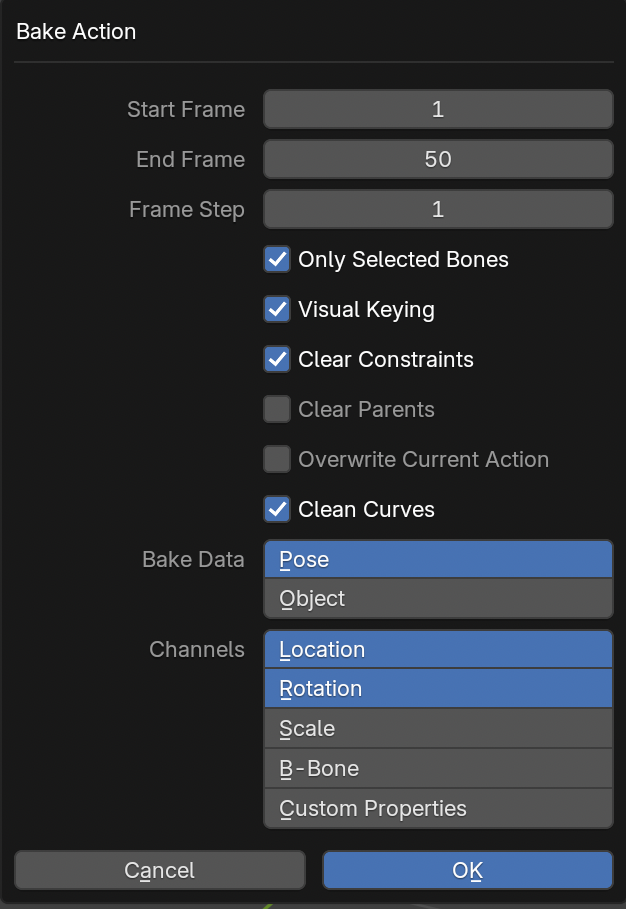
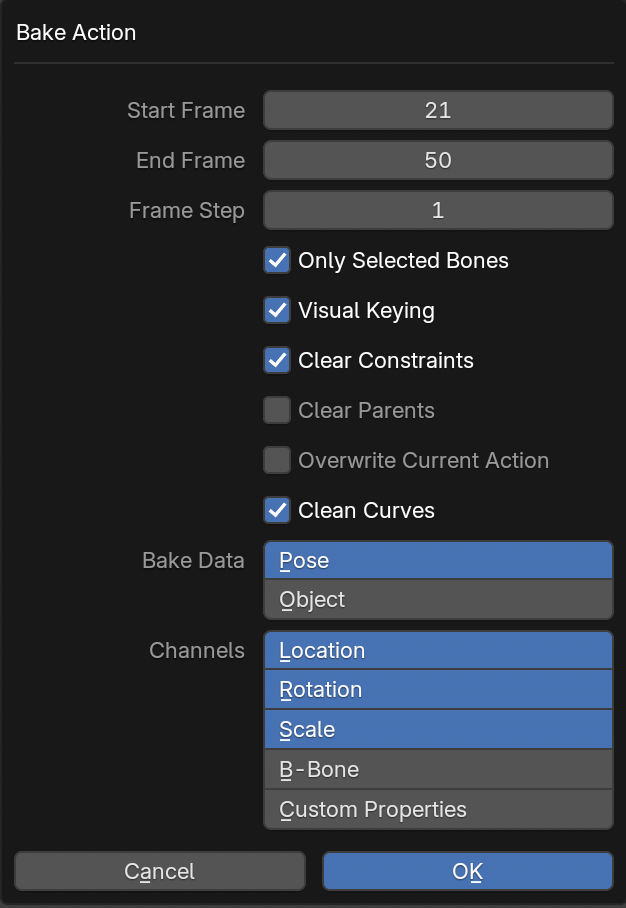
update blender.md

diff --git a/readme/blender.md b/readme/blender.md
@@ -701,8 +701,8 @@ check_non_normalized_vertices()
 
 <img src="../images/blender/blender_bake_action.png" alt="image" width="300"><br>
 
-* `Start Frame`: 物理模拟开始生效的帧。应包含必要的预缓冲帧，避免物理在首帧产生突变
-* `End Frame`: 物理模拟结束的帧。应覆盖完整的动画与物理模拟范围
+* `Start Frame`: 实际动画的起始帧（若物理模拟过渡帧为`1～20`帧，实际动画的起始帧为`21`帧，那么烘焙的起始帧应当设置为`21`帧）
+* `End Frame`: 实际动画的结束帧
 * `Frame Step`: 关键帧采样间隔。物理模拟需保持为`1`，以确保逐帧烘焙并避免插值误差
 * `Only Selected Bones` [✔]: 仅对选中的控制骨骼进行烘焙，避免生成不必要的底层骨骼关键帧
 * `Visual Keying` [✔]: 烘焙屏幕上“最终可见”的物理结果（包含约束与物理模拟的影响）
@@ -716,6 +716,8 @@ check_non_normalized_vertices()
 * `Channels » Scale` [❌]: 默认不烘焙缩放数据，避免引入非预期的拉伸或比例错误
 * `Channels » B-Bone` [❌]: 不烘焙 `B-Bone` 弯曲参数，常规角色 `Rig` 无需此数据
 * `Channels » Custom Properties` [❌]: 不烘焙自定义属性，仅在确有动画化 `Rig` 参数需求时启用
+
+最后将“烘焙结果”平移至第一帧开始。
 
 ---
 
